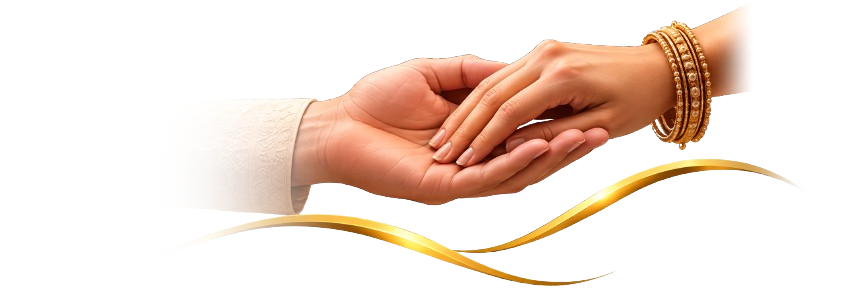
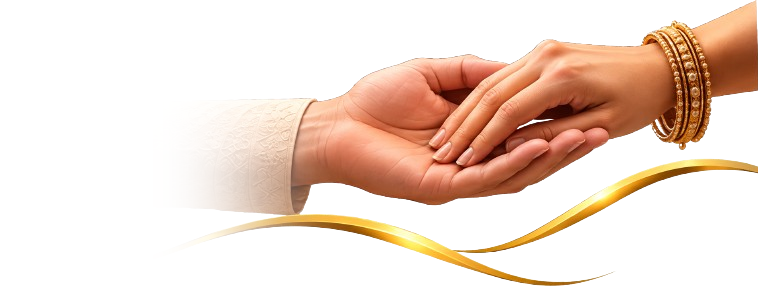
asda

diff --git a/resources/views/frontend/includes/footer.blade.php b/resources/views/frontend/includes/footer.blade.php
@@ -1,14 +1,14 @@
 <footer class="relative z-10 bg-[#1f0103] text-white border-t-2 border-[#d4af37] mt-auto overflow-hidden">
-    <!-- Ambient Red Faded Glow behind hands on Desktop -->
-    <div class="hidden lg:block absolute right-0 top-1/2 -translate-y-1/2 w-[550px] lg:w-[700px] h-[320px] pointer-events-none select-none z-0">
-        <div class="absolute right-4 top-8 w-[420px] lg:w-[500px] h-[220px] rounded-full bg-[radial-gradient(ellipse_at_center,_rgba(180,20,40,0.55)_0%,_rgba(117,0,0,0.32)_40%,_transparent_75%)] blur-3xl"></div>
+    <!-- Ambient Red Faded Glow behind hands on right side -->
+    <div class="absolute right-0 top-1/2 -translate-y-1/2 w-[380px] sm:w-[500px] lg:w-[700px] h-[300px] sm:h-[320px] pointer-events-none select-none z-0">
+        <div class="absolute right-0 top-8 w-[320px] sm:w-[420px] lg:w-[520px] h-[200px] sm:h-[220px] rounded-full bg-[radial-gradient(ellipse_at_center,_rgba(180,20,40,0.55)_0%,_rgba(117,0,0,0.3)_40%,_transparent_75%)] blur-3xl"></div>
     </div>
 
-    <!-- Desktop Right-Side Couple Hands Image (Bilateral left & right feathering so no cut is visible) -->
-    <div class="hidden lg:flex absolute right-0 bottom-0 pointer-events-none select-none z-0 items-end justify-end overflow-hidden">
+    <!-- Right-Side Romantic Couple Hands Image (Anchored to right bottom, bigger size) -->
+    <div class="absolute right-0 bottom-0 pointer-events-none select-none z-0 flex items-end justify-end overflow-hidden">
         <img src="{{ asset('img/footer-img.png') }}" 
              alt="Rani Matrimonial" 
-             class="h-[240px] xl:h-[285px] w-auto max-w-none object-contain object-right-bottom [mask-image:linear-gradient(to_right,transparent_0%,transparent_10%,black_30%,black_75%,transparent_92%,transparent_100%)] [-webkit-mask-image:linear-gradient(to_right,transparent_0%,transparent_10%,black_30%,black_75%,transparent_92%,transparent_100%)] transition-opacity duration-300" />
+             class="h-[230px] sm:h-[260px] md:h-[290px] lg:h-[320px] xl:h-[340px] w-auto max-w-none object-contain object-right-bottom opacity-85 sm:opacity-95 lg:opacity-100 transition-opacity duration-300" />
     </div>
 
     <!-- Top & Main Content Section -->
@@ -71,17 +71,6 @@
                     </div>
                 </div>
             </div>
-        </div>
-    </div>
-
-    <!-- Mobile & Tablet Centered Romance Graphic ("thik thak middle" with seamless left & right fade) -->
-    <div class="relative z-10 flex lg:hidden items-center justify-center -mt-2 mb-4 px-4 overflow-hidden">
-        <div class="relative max-w-sm sm:max-w-md w-full flex items-center justify-center">
-            <!-- Ambient Warm Red Glow behind centered hands -->
-            <div class="absolute inset-0 m-auto w-44 sm:w-56 h-20 sm:h-24 rounded-full bg-[radial-gradient(ellipse_at_center,_rgba(180,20,40,0.5)_0%,_rgba(117,0,0,0.25)_45%,_transparent_72%)] blur-2xl pointer-events-none"></div>
-            <img src="{{ asset('img/footer-img.png') }}" 
-                 alt="Rani Matrimonial" 
-                 class="relative z-10 w-full h-auto max-h-[130px] sm:max-h-[165px] object-contain pointer-events-none select-none [mask-image:linear-gradient(to_right,transparent_0%,transparent_8%,black_25%,black_75%,transparent_92%,transparent_100%)] [-webkit-mask-image:linear-gradient(to_right,transparent_0%,transparent_8%,black_25%,black_75%,transparent_92%,transparent_100%)]" />
         </div>
     </div>
 
